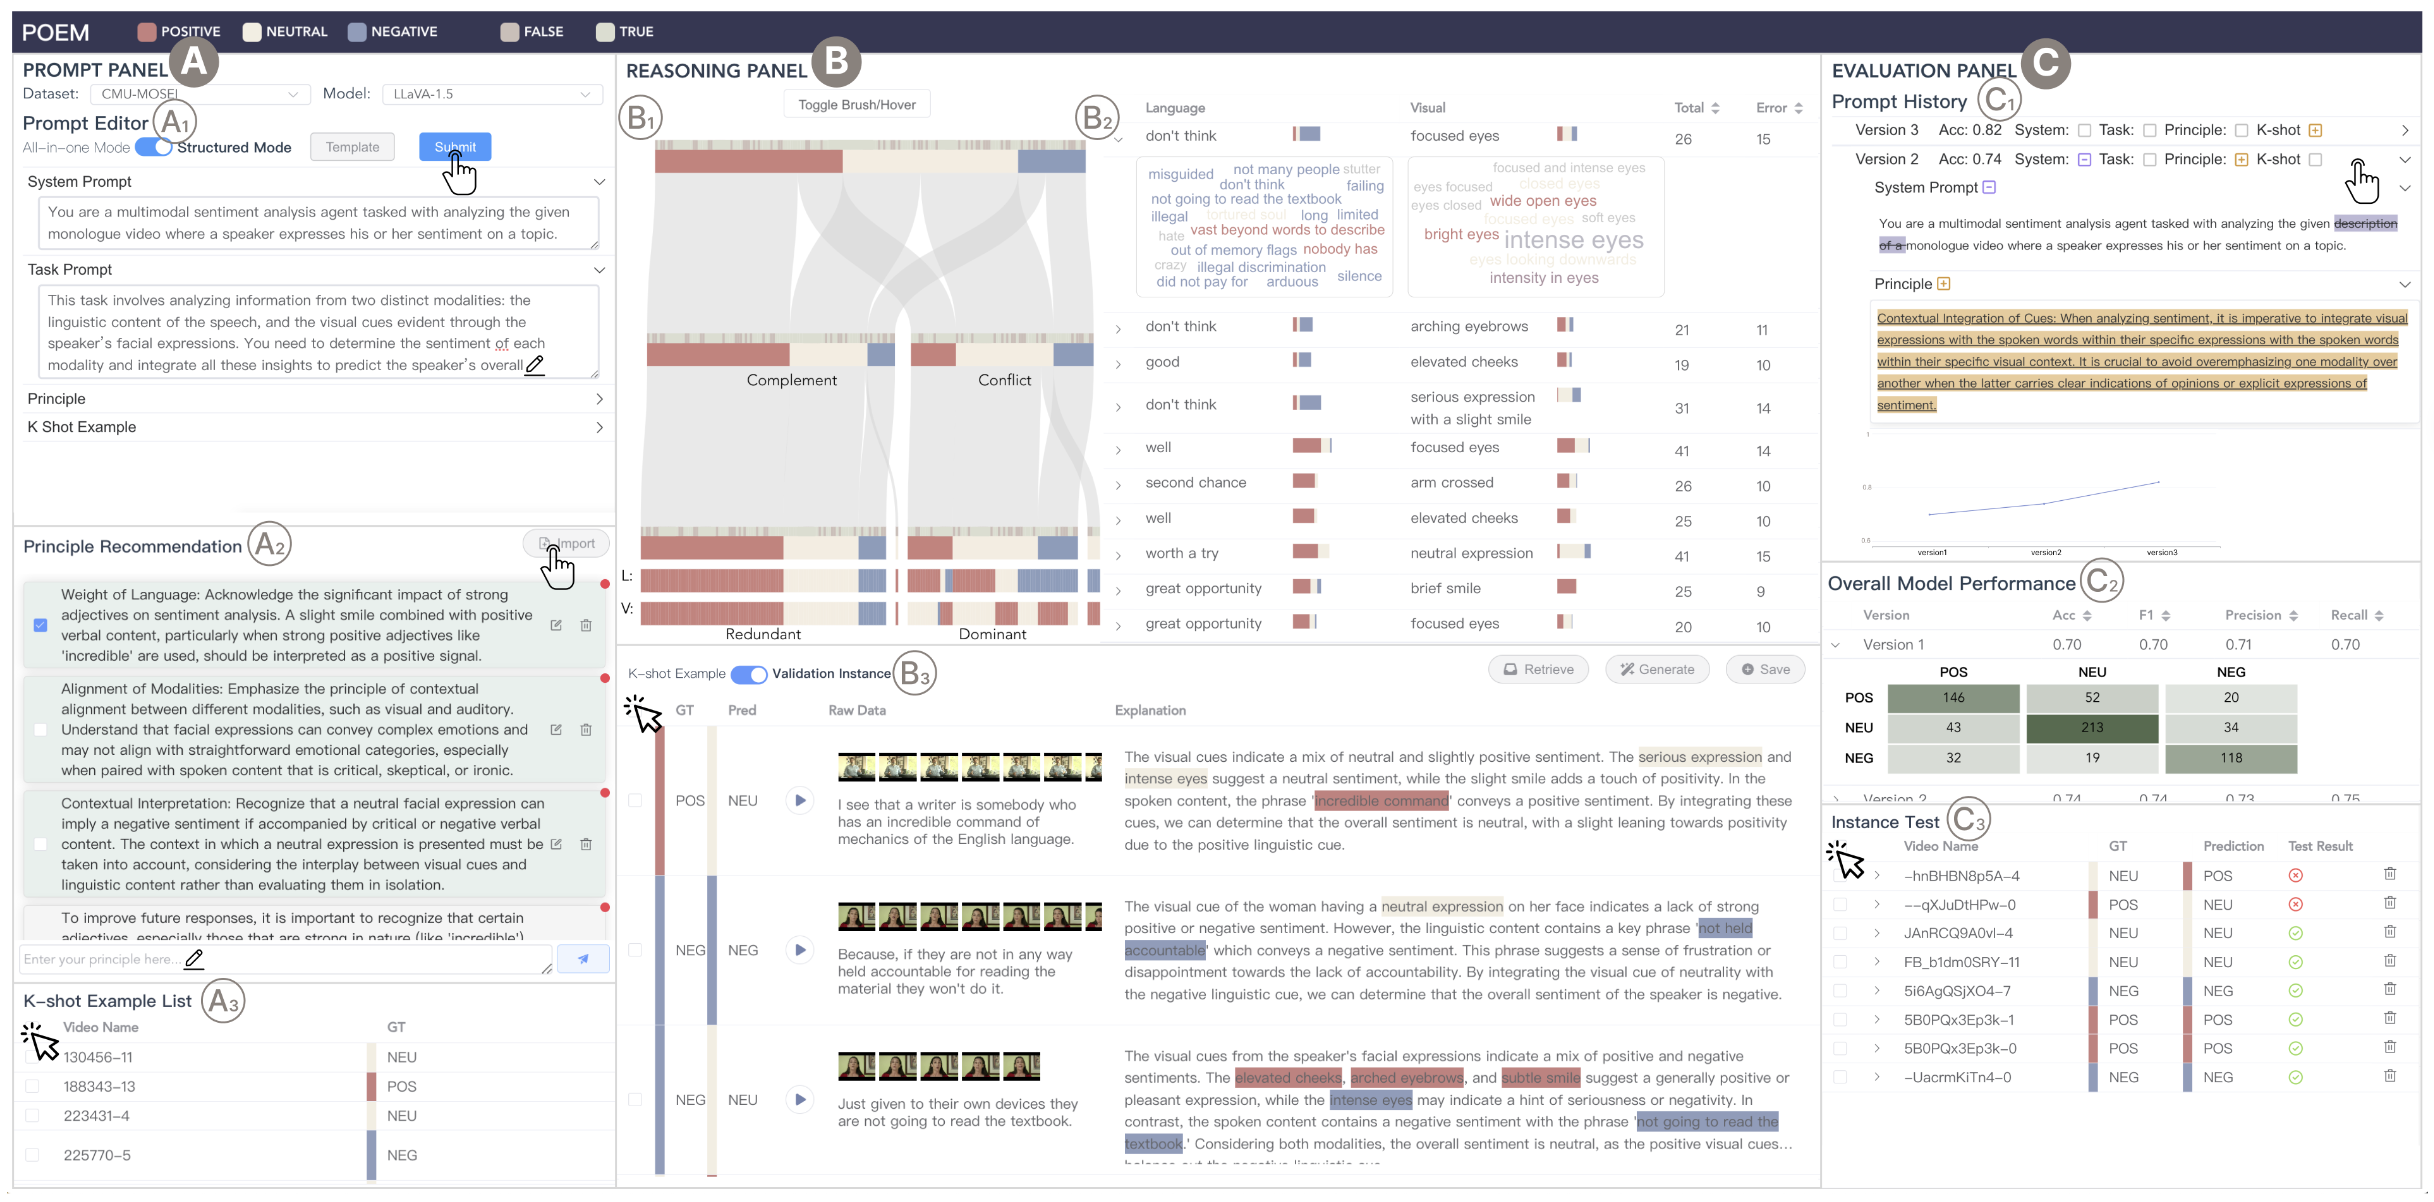
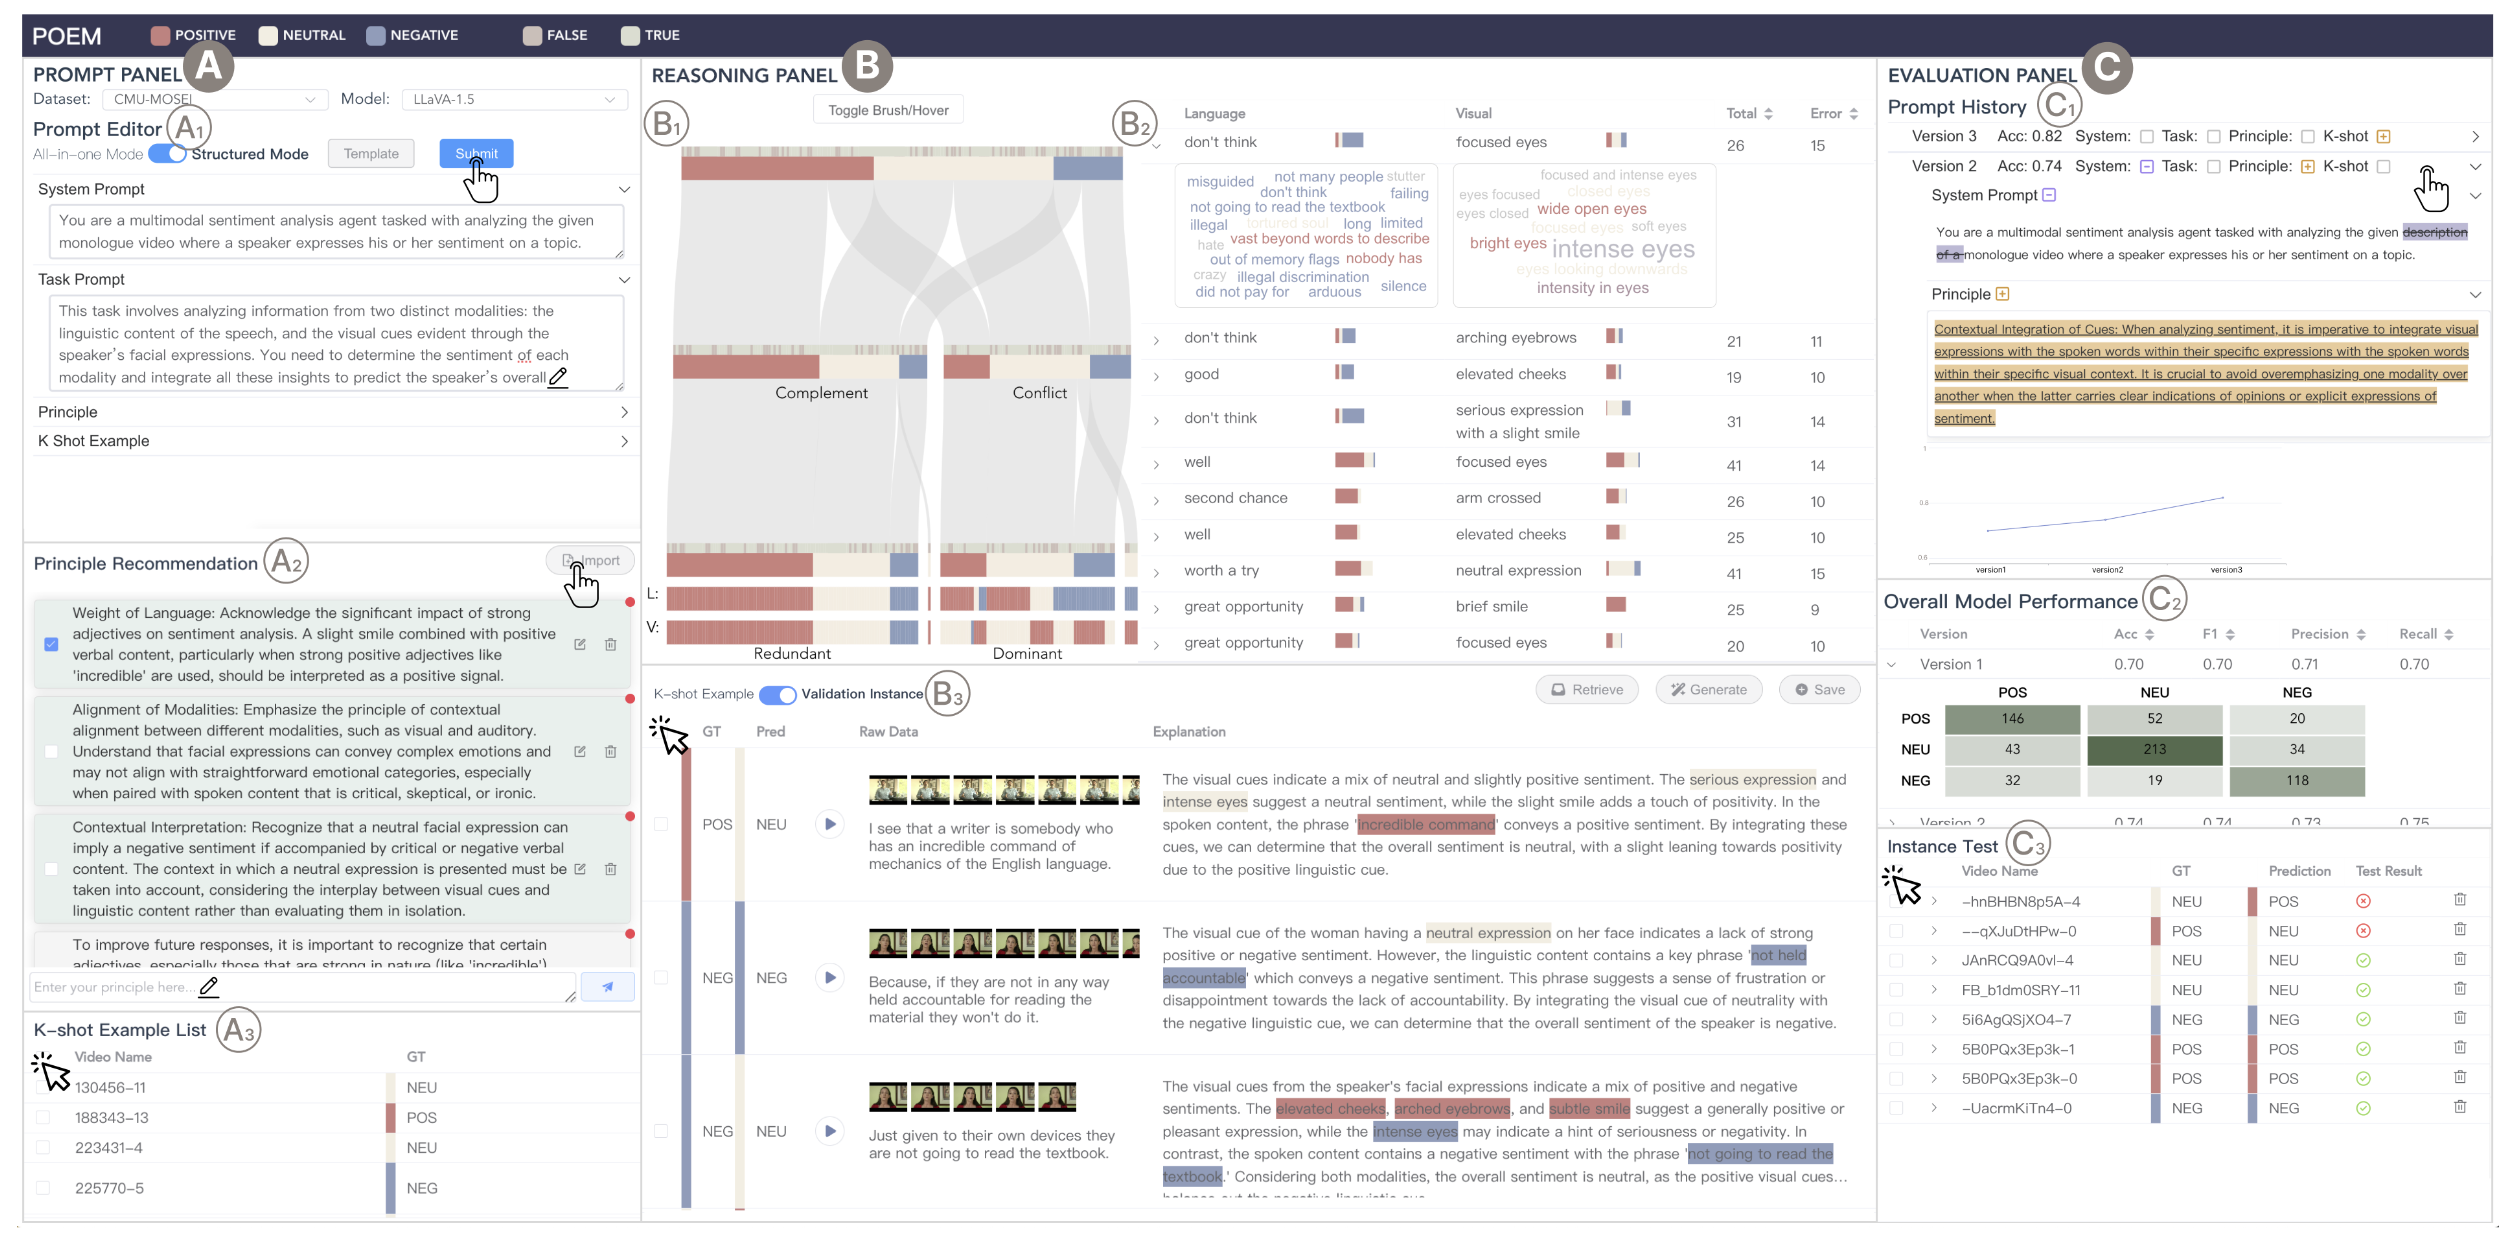
pub

diff --git a/_includes/publications.md b/_includes/publications.md
@@ -7,16 +7,41 @@
   <div class="pub-row">
     <div class="col-sm-3 abbr" style="position: relative;padding-right: 15px;padding-left: 15px;">
        
-      <img src="./assets/img/teaser_Poem.png" class="teaser img-fluid z-depth-1" style="width=100;height=40%" />
+      <img src="./assets/img/teaser_ICWSM.png" class="teaser img-fluid z-depth-1" style="width=100;height=40%" />
        
-      <abbr class="badge">arXiv</abbr>
+      <abbr class="badge">PacificVis</abbr>
+      
+      
+    </div>
+    <div class="col-sm-9" style="position: relative;padding-right: 15px;padding-left: 20px;">
+        <div class="title"><a href="">Influence Maximization in Temporal Social Networks with a Cold-start Problem: A Supervised Approach</a></div>
+        <div class="author">Laixin Xie, Ying Zhang, Xiyuan Wang, <strong><u>Shiyi Liu</u></strong>, Shenghan Gao, Xingxing Xing, Wei Wan, Haipeng Zhang, Quan Li</div>
+        <div class="periodical"><i>ICWSM</i>, 2025.
+        </div>
+      <div class="links">
+         
+        <a href="" class="btn btn-sm z-depth-0" role="button" target="_blank" style="font-size:12px;">PDF</a>
+        
+        
+      </div>
+    </div>
+  </div>
+  </li>
+
+<li>
+  <div class="pub-row">
+    <div class="col-sm-3 abbr" style="position: relative;padding-right: 15px;padding-left: 15px;">
+       
+      <img src="./assets/img/teaser_POEM.png" class="teaser img-fluid z-depth-1" style="width=100;height=40%" />
+       
+      <abbr class="badge">PacificVis</abbr>
       
       
     </div>
     <div class="col-sm-9" style="position: relative;padding-right: 15px;padding-left: 20px;">
         <div class="title"><a href="https://arxiv.org/abs/2407.03045">POEM: Interactive Prompt Optimization for Enhancing Multimodal Reasoning of Large Language Models</a></div>
         <div class="author">Jianben He, Xingbo Wang, <strong><u>Shiyi Liu</u></strong>, Guande Wu, Claudio Silva, Huamin Qu</div>
-        <div class="periodical">2023.
+        <div class="periodical"><i>Pacific VIS</i>, 2025.
         </div>
       <div class="links">
          
@@ -52,6 +77,43 @@
     </div>
   </div>
   </li>
+
+
+<li>
+<div class="pub-row">
+  <div class="col-sm-3 abbr" style="position: relative;padding-right: 15px;padding-left: 15px;">
+     
+    <img src="./assets/img/teaser_BPCoach.png" class="teaser img-fluid z-depth-1" style="width=100;height=40%" />
+     
+    <abbr class="badge">CSCW</abbr>
+    
+    
+  </div>
+  <div class="col-sm-9" style="position: relative;padding-right: 15px;padding-left: 20px;">
+      <div class="title"><a href="https://dl.acm.org/doi/abs/10.1145/3637303">BPCoach: Exploring Hero Drafting in Professional MOBA Tournaments via Visual Analytics</a></div>
+      <div class="author"><strong><u>Shiyi Liu</u></strong>, Ruofei Ma, Chuyi Zhao, Zhenbang Li, Jianpeng Xiao, Quan Li</div>
+      <div class="periodical"><em>ACM Conference on Computer-Supported Cooperative Work and Social Computing <strong>(CSCW)</strong>, 2024.</em>
+      </div>
+    <div class="links">
+       
+      <a href="https://dl.acm.org/doi/pdf/10.1145/3637303" class="btn btn-sm z-depth-0" role="button" target="_blank" style="font-size:12px;">PDF</a>
+      
+       
+      <!-- <a href="https://github.com/MrGiovanni/ContinualLearning" class="btn btn-sm z-depth-0" role="button" target="_blank" style="font-size:12px;">Code</a> -->
+      
+      
+       
+      <!-- <a href="https://bib.yliu.me/MICCAI23.txt" class="btn btn-sm z-depth-0" role="button" target="_blank" style="font-size:12px;">BibTex</a> -->
+      
+       
+      <!-- <strong> <i style="color:#e74d3c">Early Accept</i></strong> -->
+      
+      
+    </div>
+  </div>
+</div>
+</li>
+<br />
 
 <li>
 <div class="pub-row">
@@ -117,41 +179,6 @@
   </div>
   </li>
 
-
-<li>
-<div class="pub-row">
-  <div class="col-sm-3 abbr" style="position: relative;padding-right: 15px;padding-left: 15px;">
-     
-    <img src="./assets/img/teaser_BPCoach.png" class="teaser img-fluid z-depth-1" style="width=100;height=40%" />
-     
-    <abbr class="badge">CSCW</abbr>
-    
-    
-  </div>
-  <div class="col-sm-9" style="position: relative;padding-right: 15px;padding-left: 20px;">
-      <div class="title"><a href="https://dl.acm.org/doi/abs/10.1145/3637303">BPCoach: Exploring Hero Drafting in Professional MOBA Tournaments via Visual Analytics</a></div>
-      <div class="author"><strong><u>Shiyi Liu</u></strong>, Ruofei Ma, Chuyi Zhao, Zhenbang Li, Jianpeng Xiao, Quan Li</div>
-      <div class="periodical"><em>ACM Conference on Computer-Supported Cooperative Work and Social Computing <strong>(CSCW)</strong>, 2023.</em>
-      </div>
-    <div class="links">
-       
-      <a href="https://dl.acm.org/doi/pdf/10.1145/3637303" class="btn btn-sm z-depth-0" role="button" target="_blank" style="font-size:12px;">PDF</a>
-      
-       
-      <!-- <a href="https://github.com/MrGiovanni/ContinualLearning" class="btn btn-sm z-depth-0" role="button" target="_blank" style="font-size:12px;">Code</a> -->
-      
-      
-       
-      <!-- <a href="https://bib.yliu.me/MICCAI23.txt" class="btn btn-sm z-depth-0" role="button" target="_blank" style="font-size:12px;">BibTex</a> -->
-      
-       
-      <!-- <strong> <i style="color:#e74d3c">Early Accept</i></strong> -->
-      
-      
-    </div>
-  </div>
-</div>
-</li>
 <br />
 
 

diff --git a/index.md b/index.md
@@ -10,7 +10,7 @@ I am Shiyi LIU (刘诗逸), currently a Ph.D. student in the [School of Computin
 My research interests lie in data visualization (VIS) and human computer interaction (HCI). My task is to study how people understand AI, focusing on the trust and perception issues. By examining these elements, my goal is to identify key factors that enhance or impair user trust and to develop more intuitive and effective interaction models between humans and AI systems. 
 
 ## News
-
+- **[Mar. 2025]** Our paper <a href="">Influence Maximization in Temporal Social Networks with a Cold-start Problem: A Supervised Approach</a> is accepted by ICWSM 2025!
 - **[Feb. 2025]** Our paper <a href="https://arxiv.org/abs/2406.03843">POEM: Interactive Prompt Optimization for Enhancing Multimodal Reasoning of Large Language Models</a> is accepted by PacificVis 2025!
 - **[Aug. 2024]** Start my jouney at ASU🏫. 
 - **[Jul. 2024]** Graduated from ShanghaiTech University. Got my Master's Degree🎓.
@@ -19,4 +19,4 @@ My research interests lie in data visualization (VIS) and human computer interac
 
 {% include_relative _includes/publications.md %}
 
-{% include_relative _includes/services.md %}
+<!-- {% include_relative _includes/services.md %} -->
